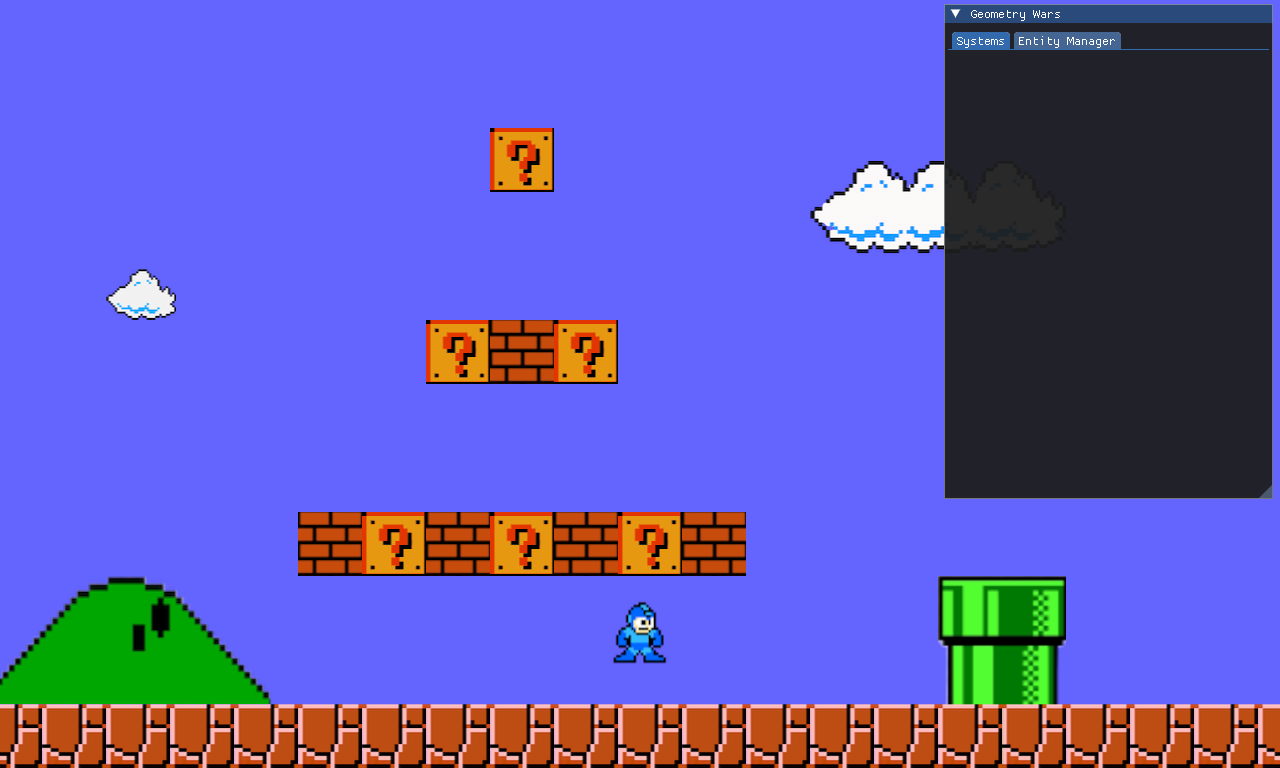
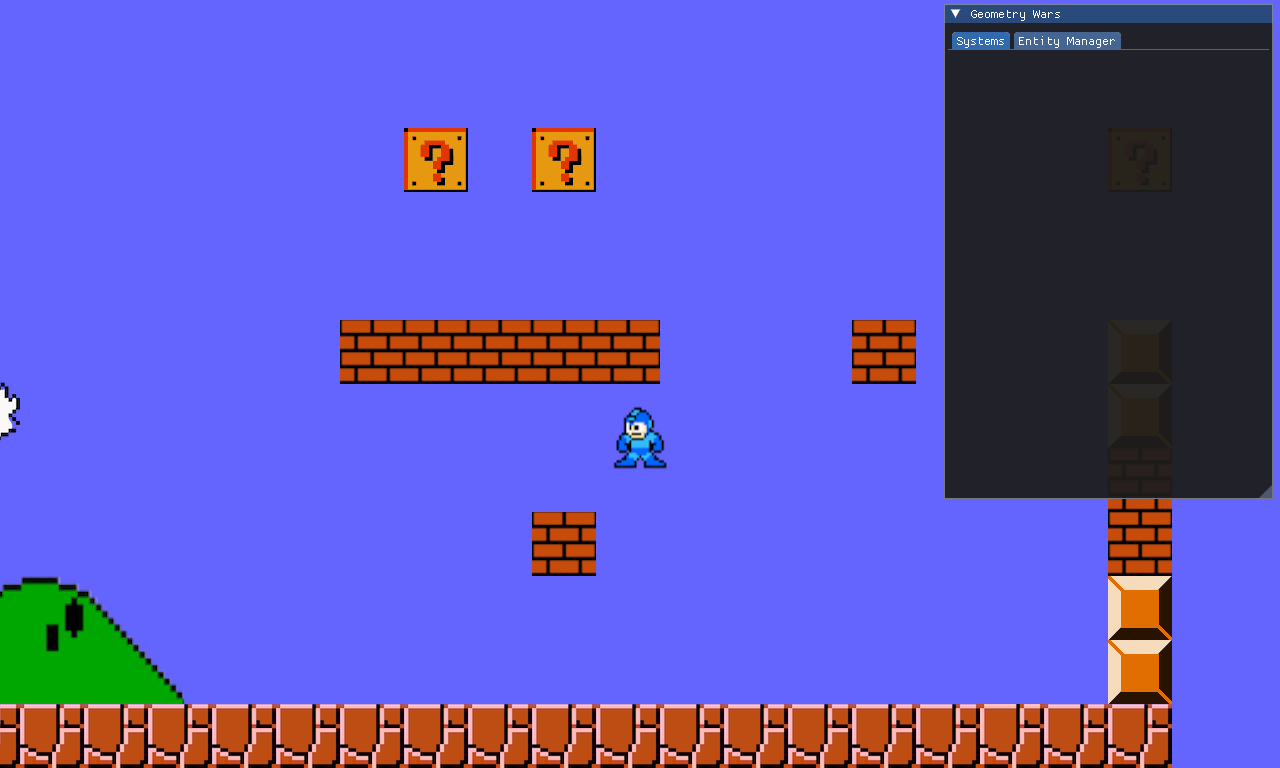
[gp-4300_A3] spawn bullet and bullet movement done

diff --git a/src/Scene_Play.cpp b/src/Scene_Play.cpp
@@ -23,9 +23,10 @@ void Scene_Play::init(const std::string& levelPath)
     registerAction(sf::Keyboard::C, "TOGGLE_COLLISION");
     registerAction(sf::Keyboard::G, "TOGGLE_GRID");
     registerAction(sf::Keyboard::Space, "JUMP");
-    registerAction(sf::Keyboard::Down, "MOVE_DOWN");
     registerAction(sf::Keyboard::Left, "MOVE_LEFT");
     registerAction(sf::Keyboard::Right, "MOVE_RIGHT");
+    registerAction(sf::Keyboard::C, "SHOOT");
+
 
     // TODO register all other game play actions.
 
@@ -108,7 +109,7 @@ void Scene_Play::spawnPlayer()
 {
     m_player = m_entityManager.addEntity("Player");
     m_player->add<CAnimation>(m_game->assets().getAnimation("Stand"), true);
-    auto& transform_c = m_player->add<CTransform>(gridToMidPixel(m_playerConfig.X, m_playerConfig.Y, m_player));
+    m_player->add<CTransform>(gridToMidPixel(m_playerConfig.X, m_playerConfig.Y, m_player));
 
     m_player->add<CBoundingBox>(Vec2f(m_playerConfig.CX, m_playerConfig.CY));
     m_player->add<CState>("stand");
@@ -118,66 +119,86 @@ void Scene_Play::spawnPlayer()
 
 void Scene_Play::spawnBullet(std::shared_ptr<Entity> entity)
 {
-     // TODO: this should spawn a bullet at the given entity, going in the direction the entity is facing
+    auto& entity_transform = entity->get<CTransform>();
+    float direction = entity_transform.scale.x;
+    auto bullet = m_entityManager.addEntity("Bullet");
+    auto& c_animation = bullet->add<CAnimation>(m_game->assets().getAnimation(m_playerConfig.WEAPON), true);
+    bullet->add<CTransform>(entity_transform.pos, Vec2f(float(m_playerConfig.SPEED) * 2 * direction, 0), Vec2f(1,1), 0);
+    // sf::Vector2u texture_size = c_animation.animation.getSprite().getTexture()->getSize();
+    // bullet->add<CBoundingBox>(Vec2f(texture_size.x, texture_size.y));
+
 }
 
 void Scene_Play::update()
 {
     m_entityManager.update();
 
-    // // TODO: implement pause functionality
+    if (!m_paused)
+    {
+        sMovement();
+        SLifespan();
+        sCollision();
+        sAnimation();
+        sGUI();
+    }
 
-    sMovement();
-    sGravity();
-    SLifespan();
-    sCollision();
-    sAnimation();
-    sGUI();
     sRender();
 }
 
 void Scene_Play::sMovement()
 {
-    // TODO: Implement player movement/jumping based on its CInput component
-    // TODO: Implement gravity's effect on the player
-    // TODO: Implement the maximum player speed in both X and Y directions
+    
     // NOTE: Setting an entity's scale.x to -1/1 will make it face to the left/right
     // setting velocity
     if (m_player->has<CInput>())
     {
+        auto& transform = m_player->get<CTransform>();
         auto& input = m_player->get<CInput>();
         Vec2f vel{0.0, 0.0};
         if (input.up)
         {
-            vel.y = -1;
+            if (input.canJump)
+            { 
+                vel.y = m_playerConfig.JUMP;
+                input.canJump = false;
+            }
         }
-        else if (input.down)
-        {
-            vel.y = 1;
-        }
-        else
-        {
-            vel.y = 0;
-        } 
 
+        if (input.down)
+        {
+            if (transform.pos.y - transform.prevPos.y < 0)
+            {
+                transform.velocity.y = 0.0f;
+            }
+            input.down = false;
+        }
+ 
         if (input.right)
         {
             vel.x = 1;
+            transform.scale.x = 1;
         }
         else if(input.left)
         {
             vel.x = -1;
+            transform.scale.x = -1;
         }
         else
         {
             vel.x = 0;
         }
 
-        auto& transform = m_player->get<CTransform>();
         transform.prevPos = transform.pos;
-        transform.velocity = vel.normalize() * m_playerConfig.SPEED;
-        // transform.velocity.y = vel.y * m_playerConfig.SPEED; 
-        transform.pos += transform.velocity; // TODO: clamp velocity.
+        transform.velocity.x = vel.x * m_playerConfig.SPEED;
+        float gravity = 0.0;
+        if (m_player->has<CGravity>())
+        {
+            gravity = m_player->get<CGravity>().gravity;
+        }
+        transform.velocity.y += vel.y + gravity;
+        transform.velocity.x = std::max<float>(-m_playerConfig.MAX_SPEED, std::min<float>(transform.velocity.x, m_playerConfig.MAX_SPEED));
+        transform.velocity.y = std::max<float>(-m_playerConfig.MAX_SPEED, std::min<float>(transform.velocity.y, m_playerConfig.MAX_SPEED));
+        transform.pos += transform.velocity;
         float left_bound = m_playerConfig.CX * 0.5;
         if (transform.pos.x < left_bound)
         {
@@ -185,20 +206,14 @@ void Scene_Play::sMovement()
         }
     }
 
+    for (auto entity : m_entityManager.getEntities("Bullet"))
+    {
+        auto& c_transform = entity->get<CTransform>();
+        c_transform.pos += c_transform.velocity;
+    }   
+
 }
 
-void Scene_Play::sGravity()
-{
-    
-    // for now just the player
-    if (m_player->has<CGravity>())
-    {
-        
-        auto& gravity_c = m_player->get<CGravity>();
-        auto& transform = m_player->get<CTransform>();
-        transform.velocity.y += gravity_c.gravity;
-    }
-}
 
 void Scene_Play::SLifespan()
 {
@@ -224,22 +239,22 @@ void Scene_Play::sCollision()
                     if ((player_transform.pos.y - player_transform.prevPos.y) > 0.0)
                     {
                         // top collision
-                        std::cout << "collision coming from" <<"Top" << "\n";
                         player_transform.pos.y += overlap.y;
-                        player_transform.velocity.y = 0.0; 
+                        player_transform.velocity.y = 0.0;
+                        m_player->get<CInput>().canJump = true; 
                     }
                     else
                     {
                         // bottom collision
                         player_transform.pos.y -= overlap.y;
-                        player_transform.velocity.y = 0.0;
                         if (entity->get<CAnimation>().animation.getName() == "Brick")
                         {
                             entity->destroy();
-                        }  
+                        }
+                        player_transform.velocity.y = 0.0;
                     }
                 }
-                
+
                 else if (previous_overlap.y < 0.0 && previous_overlap.x >= 0.0 ) 
                 {
                     if ((player_transform.pos.x - player_transform.prevPos.x) > 0.0)
@@ -273,6 +288,11 @@ void Scene_Play::sDoAction(const Action &action)
         {
             m_drawGrid = !m_drawGrid;
         }
+        else if (action.name() == "TOGGLE_TEXTURE")
+        {
+            m_drawTextures = !m_drawTextures;
+        }
+
         else if (action.name() == "PAUSE")
         {
             setPaused(!m_paused); // this comes from the base class
@@ -284,21 +304,27 @@ void Scene_Play::sDoAction(const Action &action)
 
 
         // player movement
-        else if (action.name() == "JUMP")
+        if (action.name() == "JUMP")
         {
             m_player->get<CInput>().up = true;
         }
-        else if (action.name() == "MOVE_DOWN")
-        {
-            m_player->get<CInput>().down = true;
-        }
-        else if (action.name() == "MOVE_LEFT")
+        
+        if (action.name() == "MOVE_LEFT")
         {
             m_player->get<CInput>().left = true;
         }
-        else if (action.name() == "MOVE_RIGHT")
+        
+        if (action.name() == "MOVE_RIGHT")
         {
             m_player->get<CInput>().right = true;
+        }
+        
+        if (action.name() == "SHOOT")
+        {
+            if (m_player->get<CInput>().canShoot)
+                spawnBullet(m_player);
+            m_player->get<CInput>().canShoot = false;
+            
         }
     }
     else if (action.type() == "END")
@@ -306,18 +332,21 @@ void Scene_Play::sDoAction(const Action &action)
         if (action.name() == "JUMP")
         {
             m_player->get<CInput>().up = false;
+            m_player->get<CInput>().down = true;
         }
-        else if (action.name() == "MOVE_DOWN")
-        {
-            m_player->get<CInput>().down = false;
-        }
-        else if (action.name() == "MOVE_LEFT")
+        
+        if (action.name() == "MOVE_LEFT")
         {
             m_player->get<CInput>().left = false;
         }
-        else if (action.name() == "MOVE_RIGHT")
+        if (action.name() == "MOVE_RIGHT")
         {
             m_player->get<CInput>().right = false;
+        }
+
+        if (action.name() == "SHOOT")
+        {
+            m_player->get<CInput>().canShoot = true;
         }
     }
 }
@@ -329,8 +358,6 @@ void Scene_Play::sAnimation()
 
 void Scene_Play::onEnd()
 {
-    // TODO: when the scene ends, change back to the MENU scene
-    // use m_game->changeScene(correct params);
     m_game->changeScene( "MENU", std::make_shared<Scene_Menu>(m_game),true);
 }
 

diff --git a/src/Assets.hpp b/src/Assets.hpp
@@ -26,7 +26,6 @@ private:
         else
         {
             m_textureMap[textureName].setSmooth(smooth);
-            std::cout << "Loaded Texture " << path << "\n";
         }
     }
 
@@ -95,16 +94,13 @@ public:
 
     const sf::Texture& getTexture(const std::string& textureName) const
     {
-        std::cout << "getTexture: " << textureName <<" \n";
         assert(m_textureMap.find(textureName) != m_textureMap.end());
         return m_textureMap.at(textureName);
     }
 
     const Animation& getAnimation(const std::string& animationName) const
     {
-        std::cout << "getAnimation: " << animationName <<" \n";
         assert(m_animationMap.find(animationName) != m_animationMap.end());
-        std::cout << "animation found " << animationName << "\n";
         return m_animationMap.at(animationName);
     }
 

diff --git a/src/Scene_Play.h b/src/Scene_Play.h
@@ -37,8 +37,6 @@ protected:
     void spawnBullet(std::shared_ptr<Entity> entity);
 
     void sMovement();
-
-    void sGravity();
     
     void SLifespan();
     
